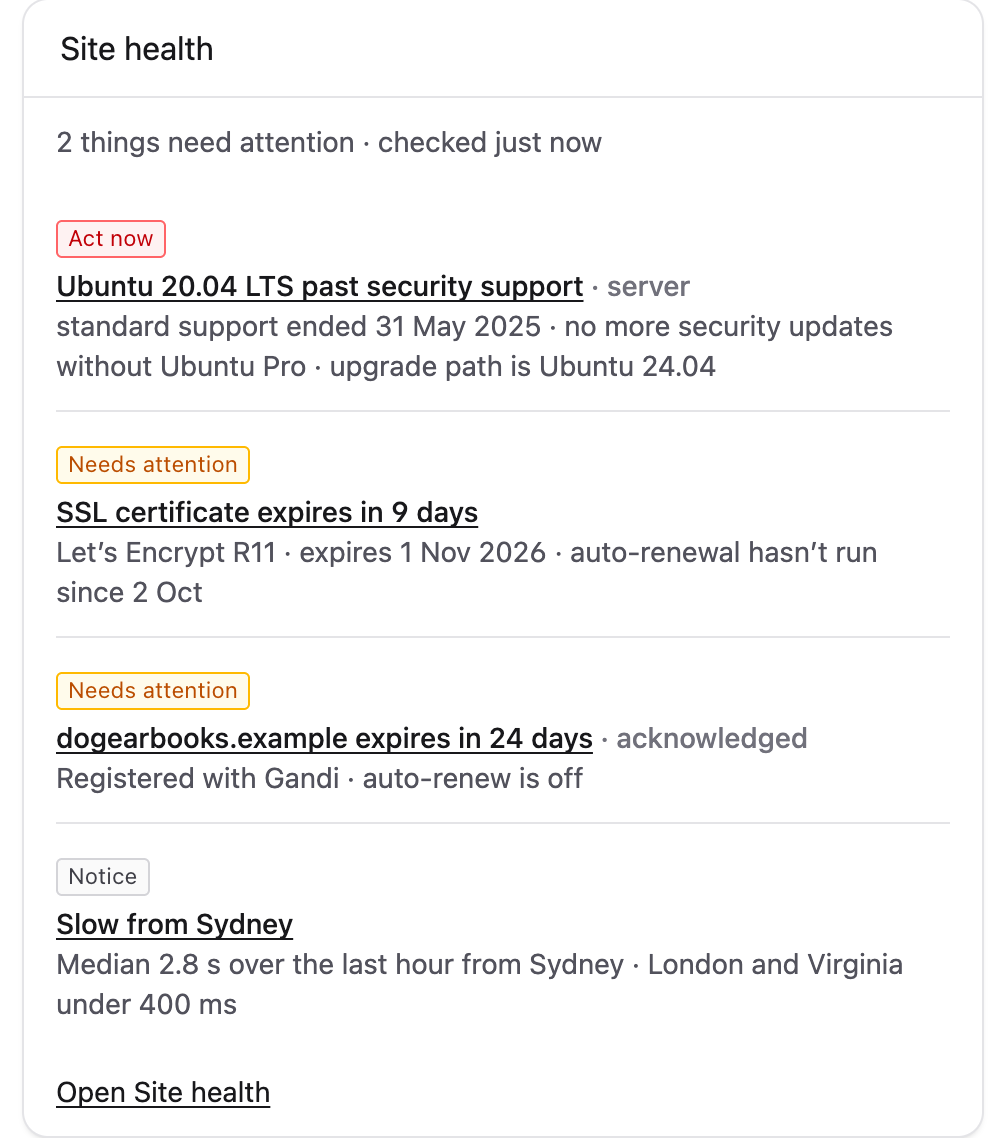
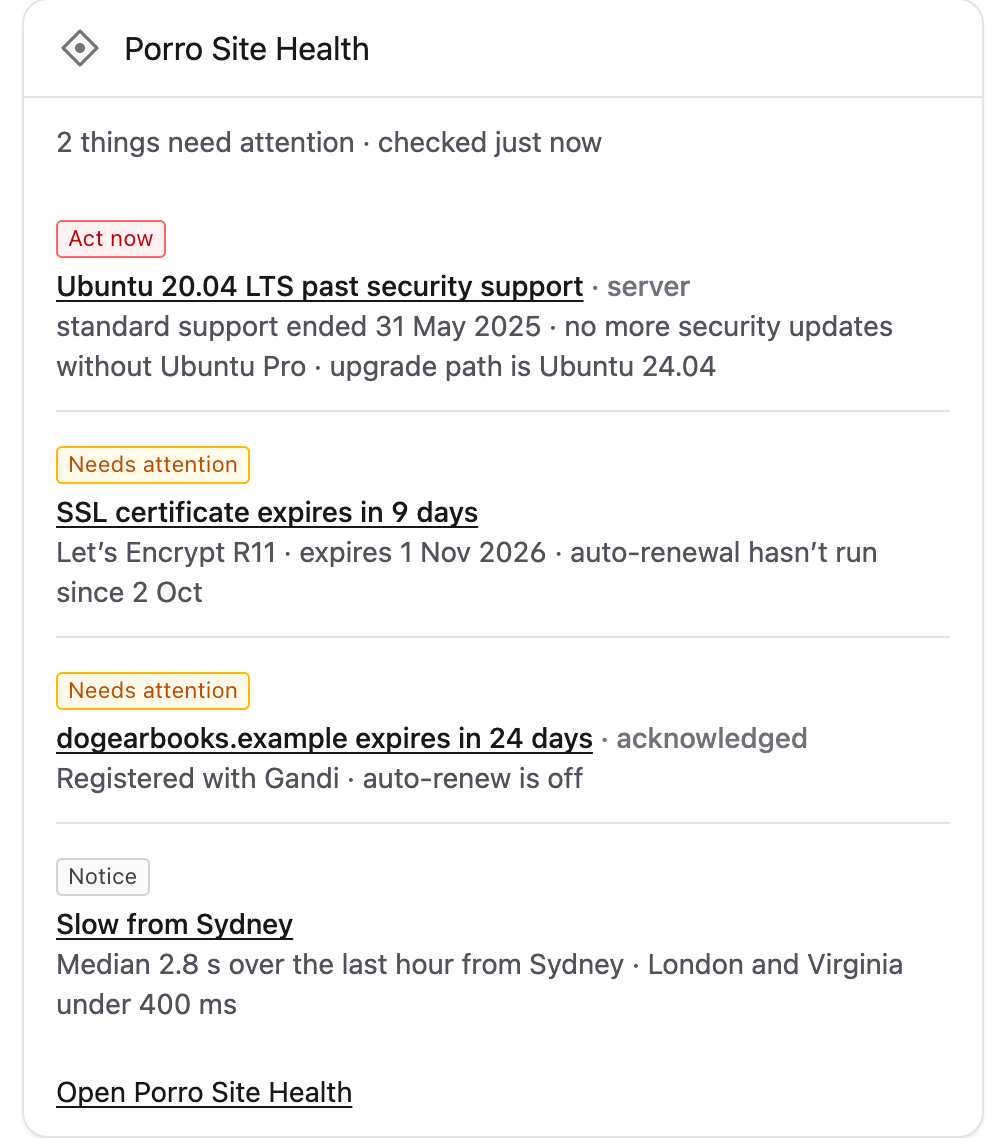
Brand it Porro Site Health, with the Porro mark
The page, nav item, widget and permission now say Porro Site Health,
and the Porro mark (the diamond and dot from Porro's own logo) is its
icon and sits beside the page heading, so people see Porro wherever
they see their site's health. Screenshots retaken from the demo.

Changed region(s): [[0.0616, 0.0308, 0.3698, 0.0615], [0.1233, 0.9534, 0.339, 0.9842]]

diff --git a/resources/views/v5/widget.blade.php b/resources/views/v5/widget.blade.php
@@ -2,7 +2,7 @@
     <header class="flex justify-between items-center p-4 border-b">
         <h2 class="flex items-center">
             <span class="h-6 w-6 mr-2 text-gray-800">{!! $icon !!}</span>
-            <a href="{{ $utilityUrl }}">{{ __('Site health') }}</a>
+            <a href="{{ $utilityUrl }}">{{ __('Porro Site Health') }}</a>
         </h2>
     </header>
     <p class="px-4 pt-3 text-sm text-gray-700">@include('porro::partials.summary')</p>
@@ -10,7 +10,7 @@
         @include('porro::v5.issues', ['issues' => $top, 'compact' => true])
     @endif
     <p class="p-4 text-sm border-t">
-        <a href="{{ $utilityUrl }}" class="text-blue hover:text-blue-800">{{ $more ? trans_choice('See :count more|See :count more', $more, ['count' => $more]) : __('Open Site health') }}</a>
+        <a href="{{ $utilityUrl }}" class="text-blue hover:text-blue-800">{{ $more ? trans_choice('See :count more|See :count more', $more, ['count' => $more]) : __('Open Porro Site Health') }}</a>
         @unless ($connected)
             <span class="text-gray-700"> · {{ __('Connect Porro for uptime, SSL and domain checks') }}</span>
         @endunless

diff --git a/resources/views/v6/widget.blade.php b/resources/views/v6/widget.blade.php
@@ -1,11 +1,11 @@
-<ui-widget title="{{ __('Site health') }}" href="{{ $utilityUrl }}">
+<ui-widget title="{{ __('Porro Site Health') }}" icon="{{ $icon }}" href="{{ $utilityUrl }}">
     <div class="px-4 py-3 space-y-3">
         <p class="text-sm text-gray-600 dark:text-gray-400">@include('porro::partials.summary')</p>
         @if (! empty($top))
             @include('porro::v6.issues', ['issues' => $top, 'compact' => true])
         @endif
         <p class="text-sm">
-            <a href="{{ $utilityUrl }}" class="underline underline-offset-2">{{ $more ? trans_choice('See :count more|See :count more', $more, ['count' => $more]) : __('Open Site health') }}</a>
+            <a href="{{ $utilityUrl }}" class="underline underline-offset-2">{{ $more ? trans_choice('See :count more|See :count more', $more, ['count' => $more]) : __('Open Porro Site Health') }}</a>
             @unless ($connected)
                 <span class="text-gray-600 dark:text-gray-400"> · {{ __('Connect Porro for uptime, SSL and domain checks') }}</span>
             @endunless

diff --git a/src/StatamicConnectorServiceProvider.php b/src/StatamicConnectorServiceProvider.php
@@ -23,13 +23,13 @@ class StatamicConnectorServiceProvider extends ServiceProvider
             $this->commands([PleaseConnectCommand::class, PleaseCronCommand::class]);
         }
 
-        // Utilities → Site health. Statamic adds an "Access Site health
-        // utility" permission and checks it on the page and its routes;
+        // Utilities → Porro Site Health. Statamic adds an "Access Porro Site
+        // Health utility" permission and checks it on the page and its routes;
         // super admins always have it.
         Utility::extend(function () {
             Utility::register('porro')
-                ->title(__('Site health'))
-                ->navTitle(__('Site health'))
+                ->title(__('Porro Site Health'))
+                ->navTitle(__('Porro Site Health'))
                 ->icon(Panel::ICON)
                 ->description(__('Security advisories, end-of-life versions, updates and the scheduler. From Porro too, once connected.'))
                 ->view('porro::utility', fn () => app(Panel::class)->data())

diff --git a/src/Panel.php b/src/Panel.php
@@ -13,7 +13,8 @@ use Throwable;
  */
 class Panel
 {
-    public const ICON = '<svg xmlns="http://www.w3.org/2000/svg" width="24" height="24" viewBox="0 0 24 24" fill="none" stroke="currentColor" stroke-width="1.5" stroke-linecap="round" stroke-linejoin="round" aria-hidden="true"><path d="M12 21s-7.5-4.35-9.3-9.2C1.4 8.2 3.6 4.5 7.3 4.5c2 0 3.5 1.1 4.7 2.7 1.2-1.6 2.7-2.7 4.7-2.7 3.7 0 5.9 3.7 4.6 7.3C19.5 16.65 12 21 12 21z"/><path d="M3.5 12h4l1.5-3 3 6 1.5-3h7"/></svg>';
+    // The Porro mark, so the panel always reads as Porro's.
+    public const ICON = '<svg xmlns="http://www.w3.org/2000/svg" width="24" height="24" viewBox="0 0 20 20" fill="none" aria-hidden="true"><path d="M10 1.5 18.5 10 10 18.5 1.5 10Z" stroke="currentColor" stroke-width="1.6" stroke-linejoin="round"/><circle cx="10" cy="10" r="2.5" fill="currentColor"/></svg>';
 
     public const SEVERITIES = [
         Issue::CRITICAL => ['label' => 'Act now', 'color' => 'red', 'hex' => '#dc2626'],

diff --git a/tests/SiteHealthTest.php b/tests/SiteHealthTest.php
@@ -52,7 +52,7 @@ it('shows the site’s health without a Porro account, with the connect command'
     $html = utilityHtml($this->actingAs(superUser())->get(utilityUrl())->assertOk());
 
     expect($html)
-        ->toContain('Site health')
+        ->toContain('Porro Site Health')
         ->toContain('Checked on this site')
         ->toContain('2 updates available')
         ->toContain('Scheduler isn’t running')
@@ -125,7 +125,7 @@ it('offers a dashboard widget for users who can see the utility', function () {
     $this->get(utilityUrl());
     $html = (string) $widget->html();
 
-    expect($html)->toContain('Site health')->toMatch('/See \\d+ more/')->toContain(utilityUrl());
+    expect($html)->toContain('Porro Site Health')->toMatch('/See \\d+ more/')->toContain(utilityUrl());
 
     $this->actingAs(tap(User::make()->email('nobody@example.com'))->save());
 

diff --git a/resources/views/v5/utility.blade.php b/resources/views/v5/utility.blade.php
@@ -2,7 +2,7 @@
 <header class="mb-6">
     @include('statamic::partials.breadcrumb', ['url' => cp_route('utilities.index'), 'title' => __('Utilities')])
     <div class="flex items-center justify-between">
-        <h1>{{ __('Site health') }}</h1>
+        <h1 class="flex items-center"><span class="h-6 w-6 mr-2 text-gray-800">{!! $icon !!}</span>{{ __('Porro Site Health') }}</h1>
         <form method="POST" action="{{ $refreshUrl }}">
             @csrf
             <button type="submit" class="btn">{{ __('Check again') }}</button>

diff --git a/resources/views/v6/utility.blade.php b/resources/views/v6/utility.blade.php
@@ -1,6 +1,6 @@
 {{-- Statamic 6: rendered by the control panel's Vue app, so ui-* components work here. --}}
 <div class="max-w-page mx-auto space-y-6">
-    <ui-header title="{{ __('Site health') }}">
+    <ui-header title="{{ __('Porro Site Health') }}" icon="{{ $icon }}">
         <template #actions>
             <form method="POST" action="{{ $refreshUrl }}">
                 @csrf

diff --git a/resources/views/partials/summary.blade.php b/resources/views/partials/summary.blade.php
@@ -1,5 +1,5 @@
 @if ($pending ?? false)
-    {{ __('Not checked yet. Open Site health to run the checks.') }}
+    {{ __('Not checked yet. Open Porro Site Health to run the checks.') }}
 @else
 @php($attention = $counts['critical'] + $counts['warning'])
 @if ($attention > 0)

diff --git a/resources/views/utility.blade.php b/resources/views/utility.blade.php
@@ -1,5 +1,5 @@
 @extends('statamic::layout')
-@section('title', __('Site health'))
+@section('title', __('Porro Site Health'))
 
 @section('content')
     @include($v6 ? 'porro::v6.utility' : 'porro::v5.utility')

diff --git a/README.md b/README.md
@@ -4,7 +4,7 @@ Site health for Statamic 5 and 6, inside the control panel. It checks the site f
 
 It's free and works on its own. If you use [Porro](https://porro.dev) to look after your sites, connecting it adds what can only be seen from outside: uptime, SSL certificates, domain expiry and the server's operating system.
 
-![Utilities → Site health on a Statamic 6 site that isn't connected to Porro: a migration not run, the scheduler not running and three failed jobs, each with the command that fixes it](docs/images/statamic-site-health.png)
+![Utilities → Porro Site Health on a Statamic 6 site that isn't connected to Porro: a migration not run, the scheduler not running and three failed jobs, each with the command that fixes it](docs/images/statamic-site-health.png)
 
 ## Install
 
@@ -12,7 +12,7 @@ It's free and works on its own. If you use [Porro](https://porro.dev) to look af
 composer require porro/statamic-connector
 ```
 
-Then open **Utilities → Site health**. Nothing else to set up.
+Then open **Utilities → Porro Site Health**. Nothing else to set up.
 
 ### Dashboard widget
 
@@ -26,11 +26,11 @@ Add it to `config/statamic/cp.php`:
 
 It lists the five most important issues (`'limit' => 5` to change that) and links to the utility. It shows the last result rather than running the checks, so the dashboard never waits on them.
 
-<img src="docs/images/statamic-widget.png" alt="The Site health dashboard widget, listing what needs attention" width="420">
+<img src="docs/images/statamic-widget.png" alt="The Porro Site Health dashboard widget, listing what needs attention" width="420">
 
 ### Who can see it
 
-Super admins. To let other roles see it, give them **Access Site health utility** under Utilities in **Users → Roles**. The widget and the "Check again" button follow the same permission.
+Super admins. To let other roles see it, give them **Access Porro Site Health utility** under Utilities in **Users → Roles**. The widget and the "Check again" button follow the same permission.
 
 ## What it checks
 
@@ -57,7 +57,9 @@ php please porro:connect <site key>
 
 The utility then shows the site's open findings in Porro alongside the checks above, each linking to Porro.
 
-![Site health connected to Porro, in dark mode: an end-of-life server, an expiring certificate and domain, and a slow region, above the checks run on the site](docs/images/statamic-site-health-dark.png) Connecting also sends Porro a signed report every 15 minutes on Laravel's scheduler: versions, packages and the health facts above, never content, users or settings values. Run `php artisan porro:status --json` to see exactly what would be sent, and see the [Laravel connector](https://github.com/Porrodev/laravel-connector) for config and commands.
+![Porro Site Health connected to Porro, in dark mode: an end-of-life server, an expiring certificate and domain, and a slow region, above the checks run on the site](docs/images/statamic-site-health-dark.png)
+
+Connecting also sends Porro a signed report every 15 minutes on Laravel's scheduler: versions, packages and the health facts above, never content, users or settings values. Run `php artisan porro:status --json` to see exactly what would be sent, and see the [Laravel connector](https://github.com/Porrodev/laravel-connector) for config and commands.
 
 `php please porro:connect` offers to add the scheduler's cron line; `php please porro:cron` adds it on its own.
 

diff --git a/CHANGELOG.md b/CHANGELOG.md
@@ -2,8 +2,8 @@
 
 ## Unreleased (0.2.0)
 
-- **Site health**: a new utility (Utilities → Site health) and dashboard widget (`porro_site_health`). Without a Porro account it checks security advisories in `composer.lock`, PHP, Laravel and Statamic support dates, Statamic, addon and Laravel updates, the scheduler, debug mode, migrations, failed jobs, backups and health checks. Once connected, it adds the site's open Porro findings with links into Porro.
-- New permission: **Access Site health utility**. Super admins have it.
+- **Porro Site Health**: a new utility (Utilities → Porro Site Health) and dashboard widget (`porro_site_health`). Without a Porro account it checks security advisories in `composer.lock`, PHP, Laravel and Statamic support dates, Statamic, addon and Laravel updates, the scheduler, debug mode, migrations, failed jobs, backups and health checks. Once connected, it adds the site's open Porro findings with links into Porro.
+- New permission: **Access Porro Site Health utility**. Super admins have it.
 - The scheduler writes a heartbeat even before the site is connected, so the utility can tell whether cron runs.
 - Requires `porro/laravel-connector` 0.2.
 
